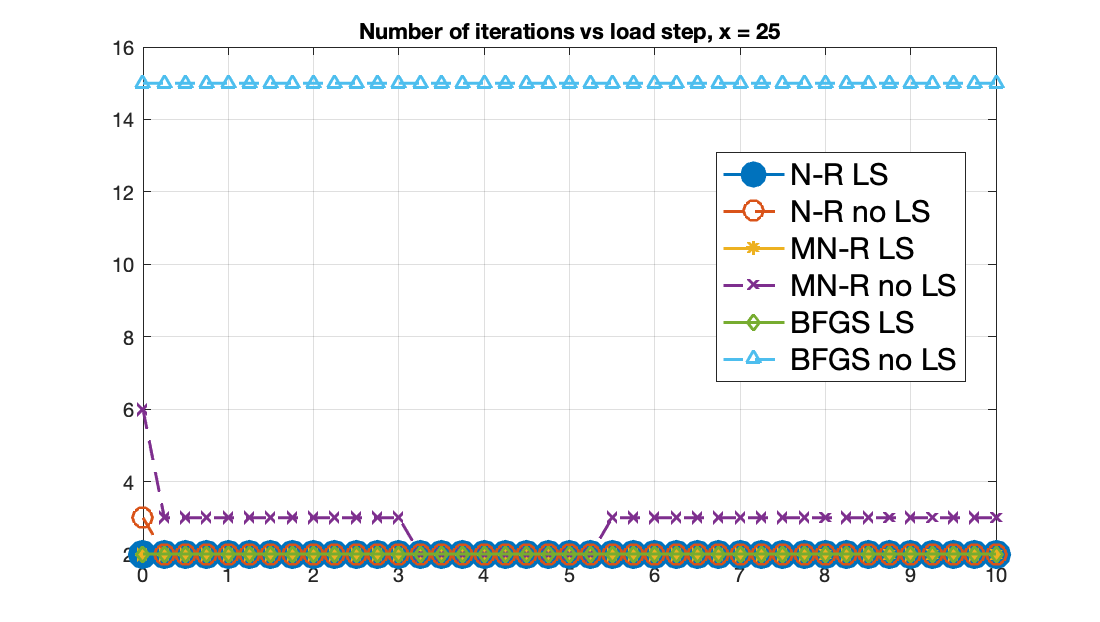
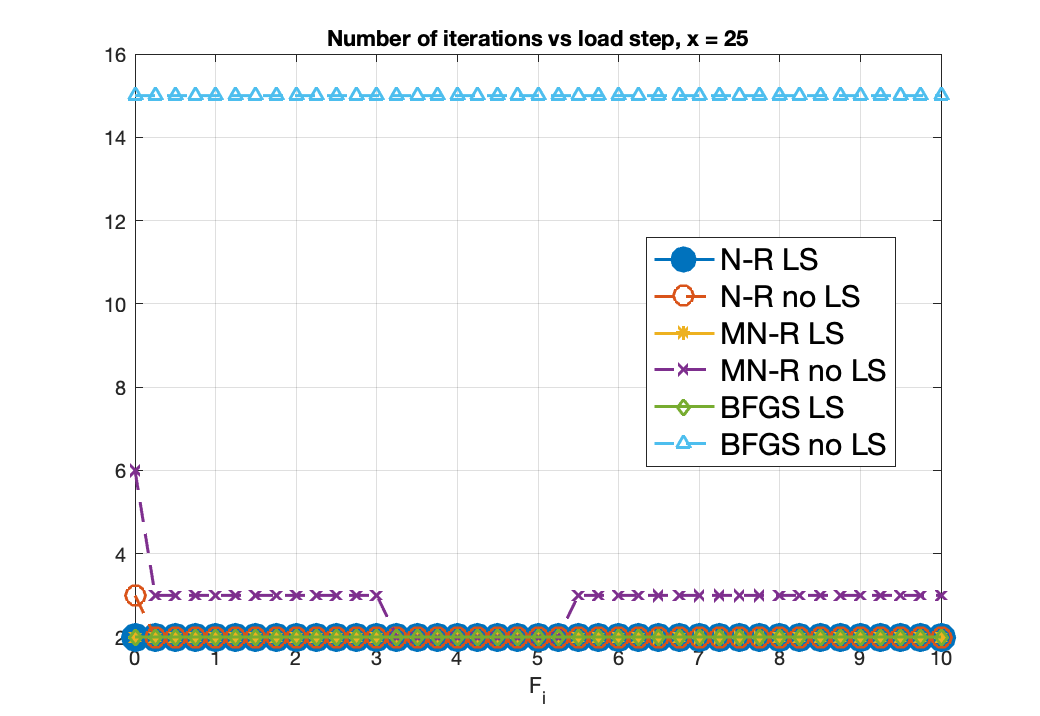
minor tweaks to the code and plots

diff --git a/MNRwithBFGSlineSearchable.m b/MNRwithBFGSlineSearchable.m
@@ -49,7 +49,7 @@ if LSflag == false %no line search
 
     if i == maxiter
         %disp(['Did not converge. Last value is  ', num2str(diOld(1))])
-        di = 0;
+        di = real(diNew(1));
         iCon = i;
     end
     resF = residual(Fi, diNew, x);
@@ -96,6 +96,7 @@ else %with line search
     if i == maxiter
         disp(['Did not converge. Last value is  ', num2str(diOld(1))])
         di = diNew(1);
+        iCon = i;
     end
     resF = residual(Fi, diNew, x);
     resF = resF(1);
@@ -157,6 +158,10 @@ end
             else
                 sOld = sNew;
             end
+        end
+
+        if j == lineMaxiter
+            si = sNew;
         end
     end
 

diff --git a/NonlinearMethodPlotter.m b/NonlinearMethodPlotter.m
@@ -136,6 +136,7 @@ plot(Fi, i_BFGS_nls, '^--', 'DisplayName', 'BFGS no LS', 'LineWidth',1.5,...
 title(sprintf('Number of iterations vs load step, x = %i', x))
 legend('FontSize', 15)
 grid on
+xlabel('F_i')
 
 
     function Nd = NFunc(di)

diff --git a/ModifiedNewtonRaphLineSearch.m b/ModifiedNewtonRaphLineSearch.m
@@ -34,7 +34,8 @@ resF = resF(1);
 
 if i == maxiter
 disp(['Did not converge. Last value is %f ', num2str(diOld(1))])
-di = diNew(1);
+di = real(diNew(1));
+iCon = i;
 end
 
 

diff --git a/NewtonRaphNoLineSearch.m b/NewtonRaphNoLineSearch.m
@@ -32,6 +32,7 @@ resF = resF(1);
 if i == maxiter
 disp(['Did not converge. Last value is %f ', num2str(diOld(1))])
 di = diNew(1);
+iCon = i;
 end
 
 
